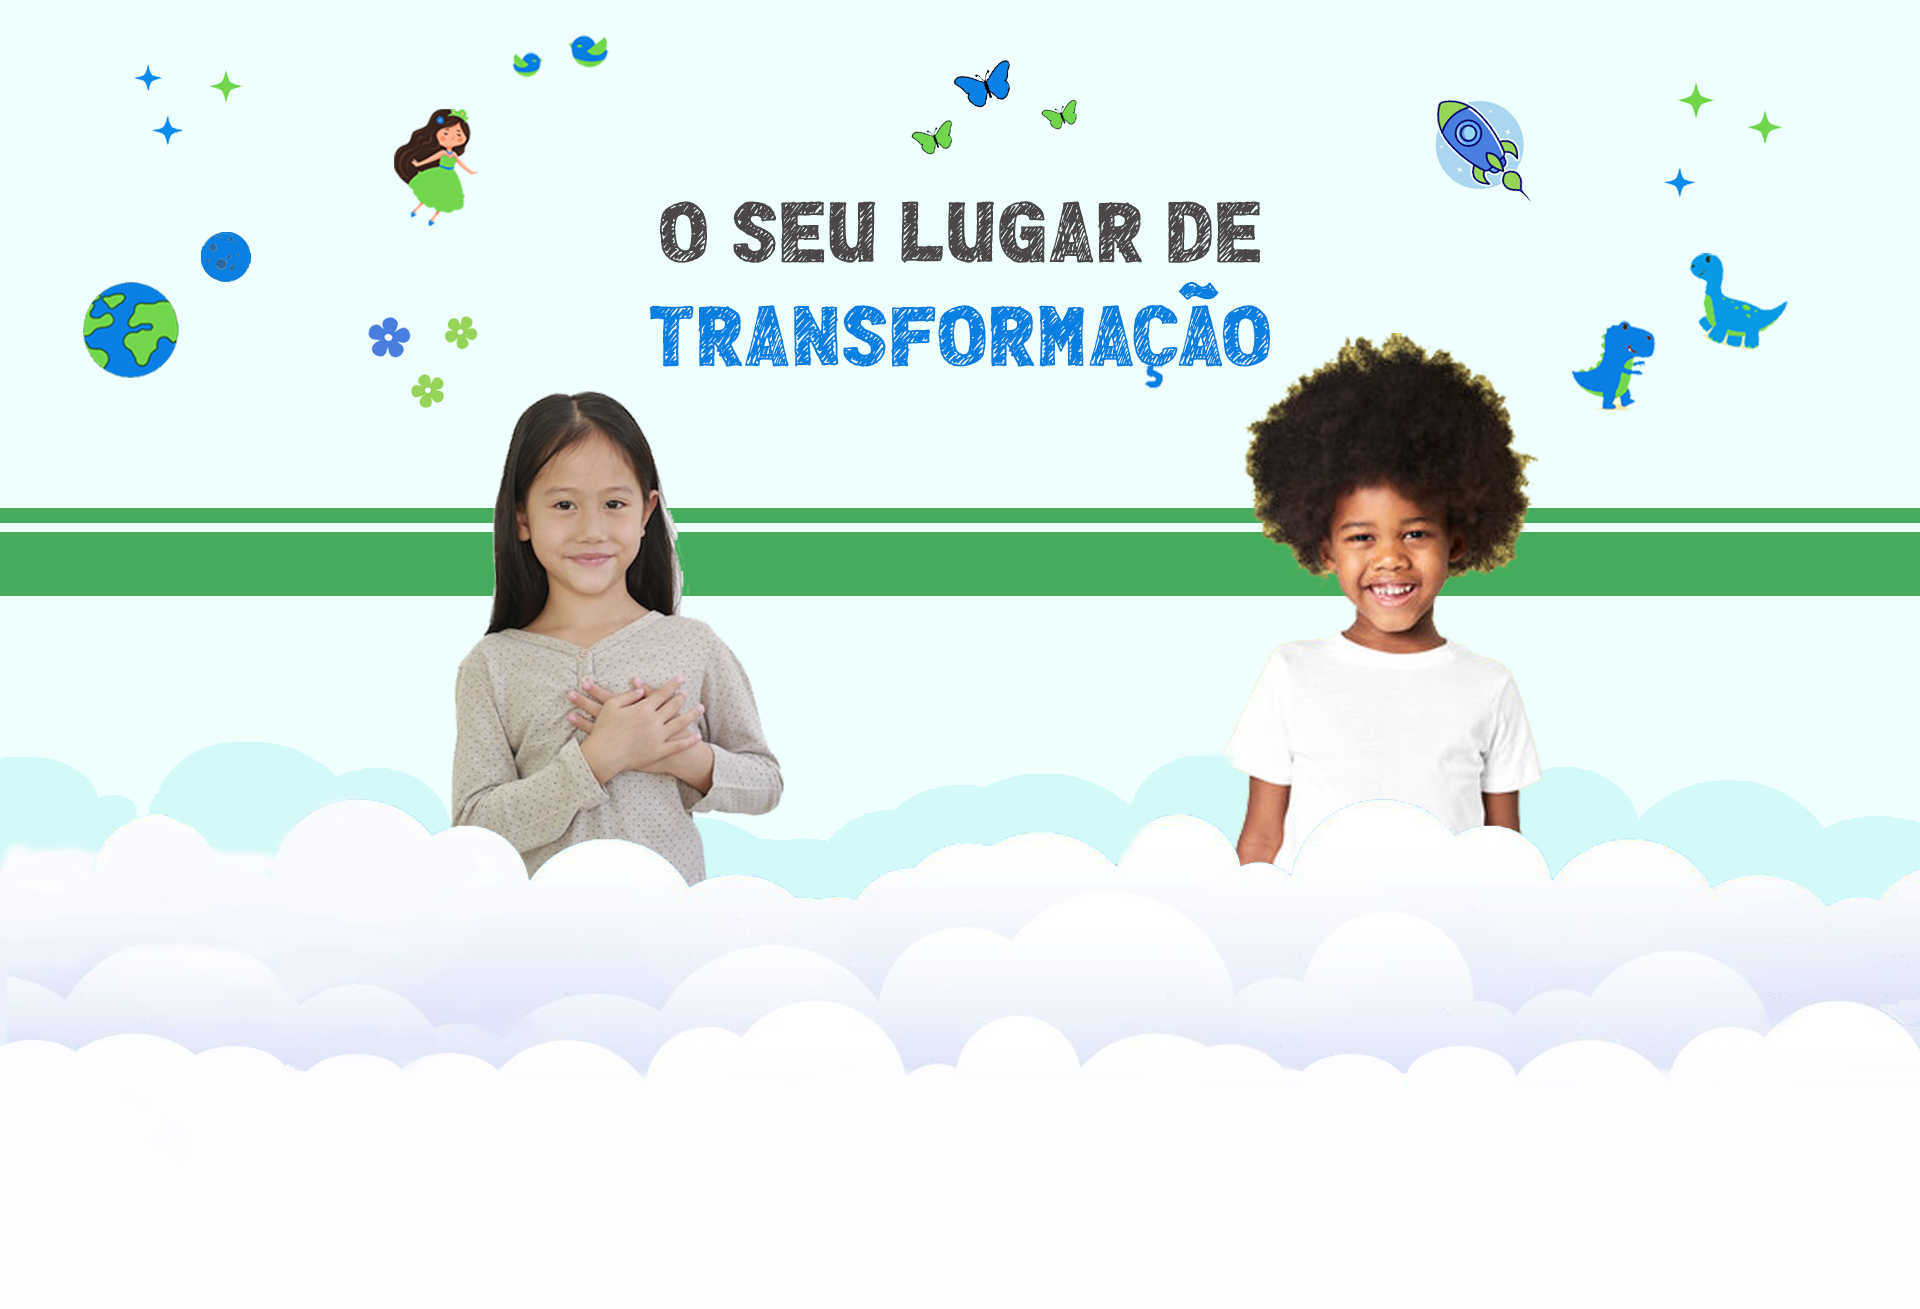
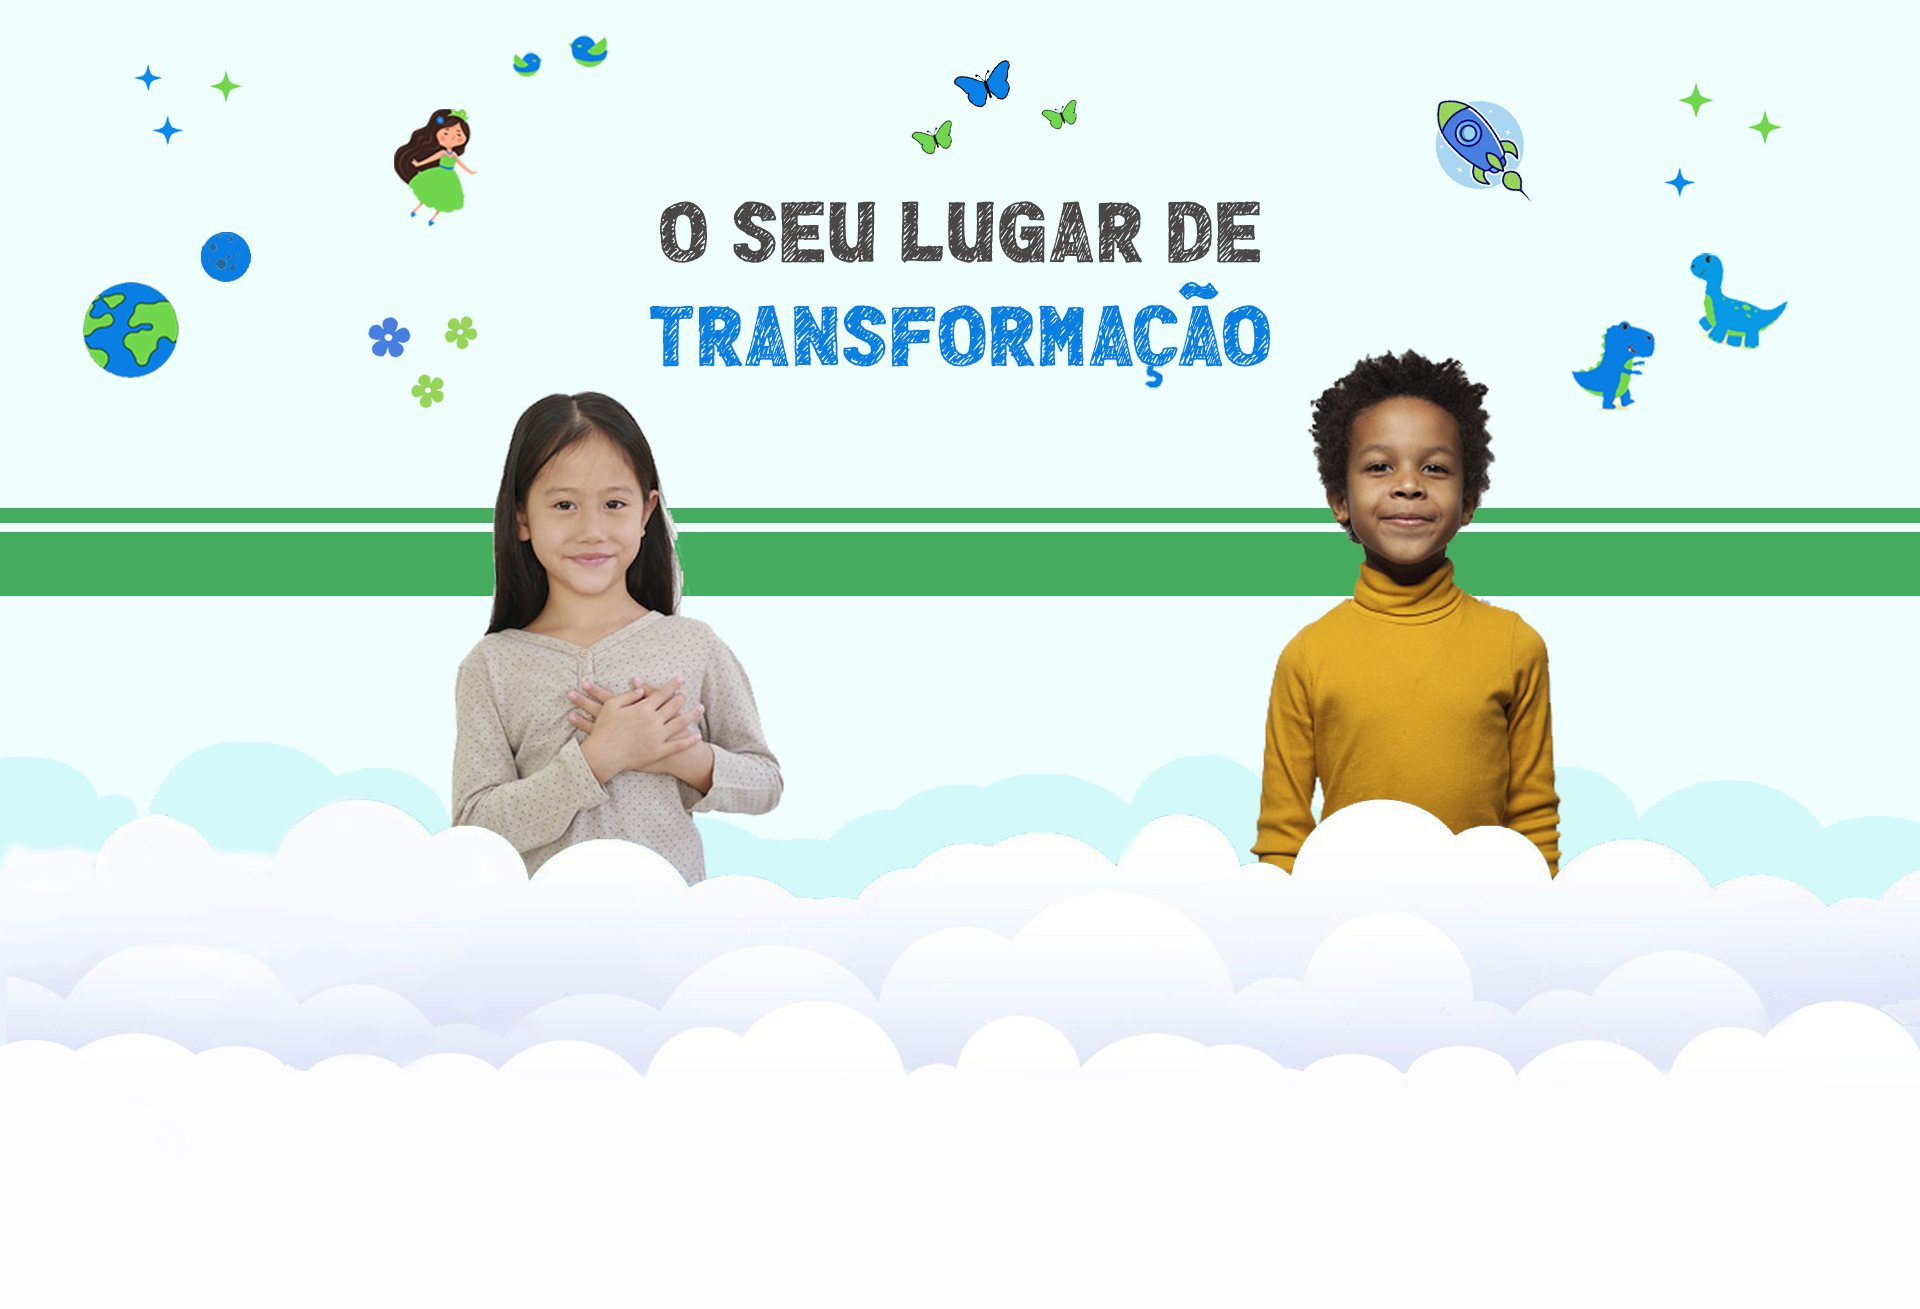
Atualizando foto

Changed region(s): [[0.625, 0.2445, 0.8125, 0.6723]]

diff --git a/style.css b/style.css
@@ -77,7 +77,7 @@ body{
 #navbar {
   font-family:'Franklin Gothic Medium', 'Arial Narrow', Arial, sans-serif;
   font-weight: 600;
-  font-size: 1.1rem;
+  font-size: 1rem;
 
   height: 12vh;
   
